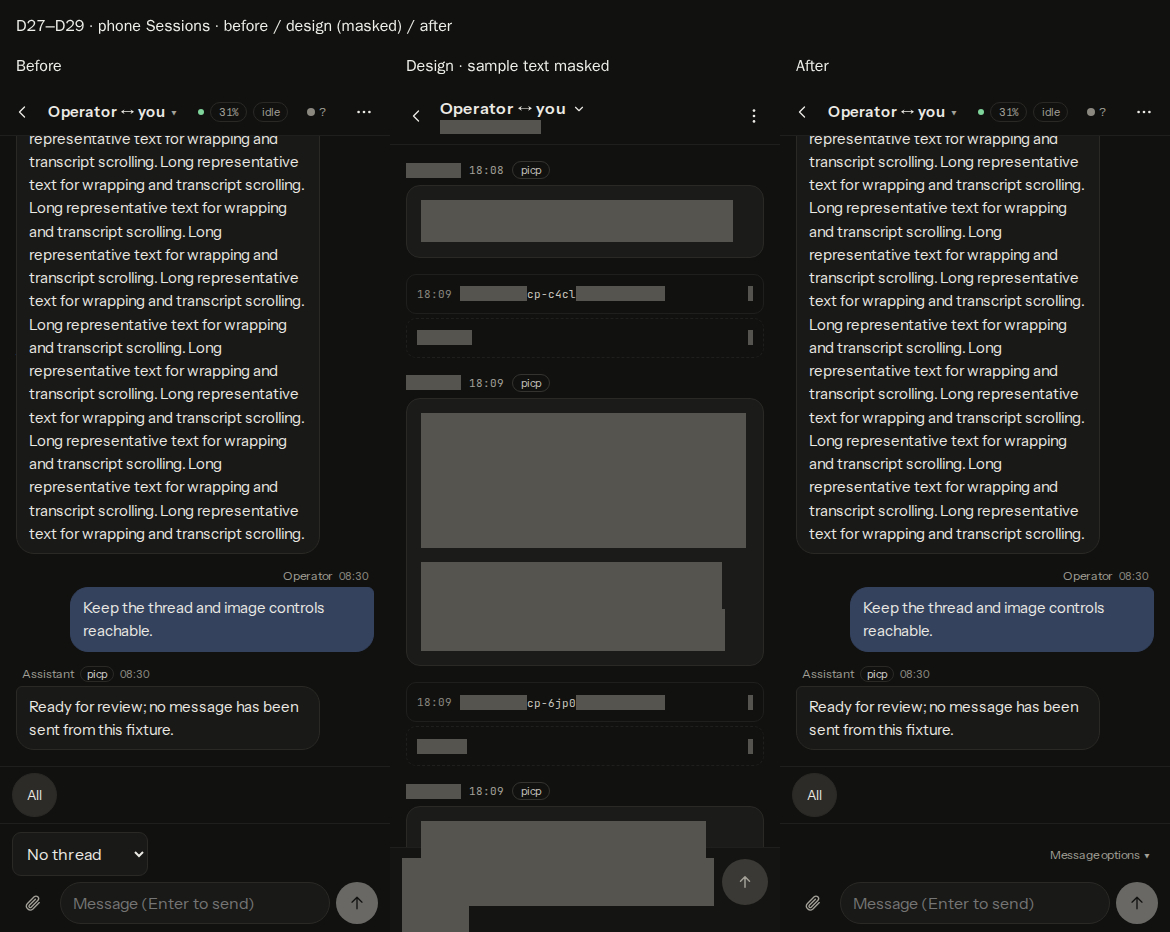
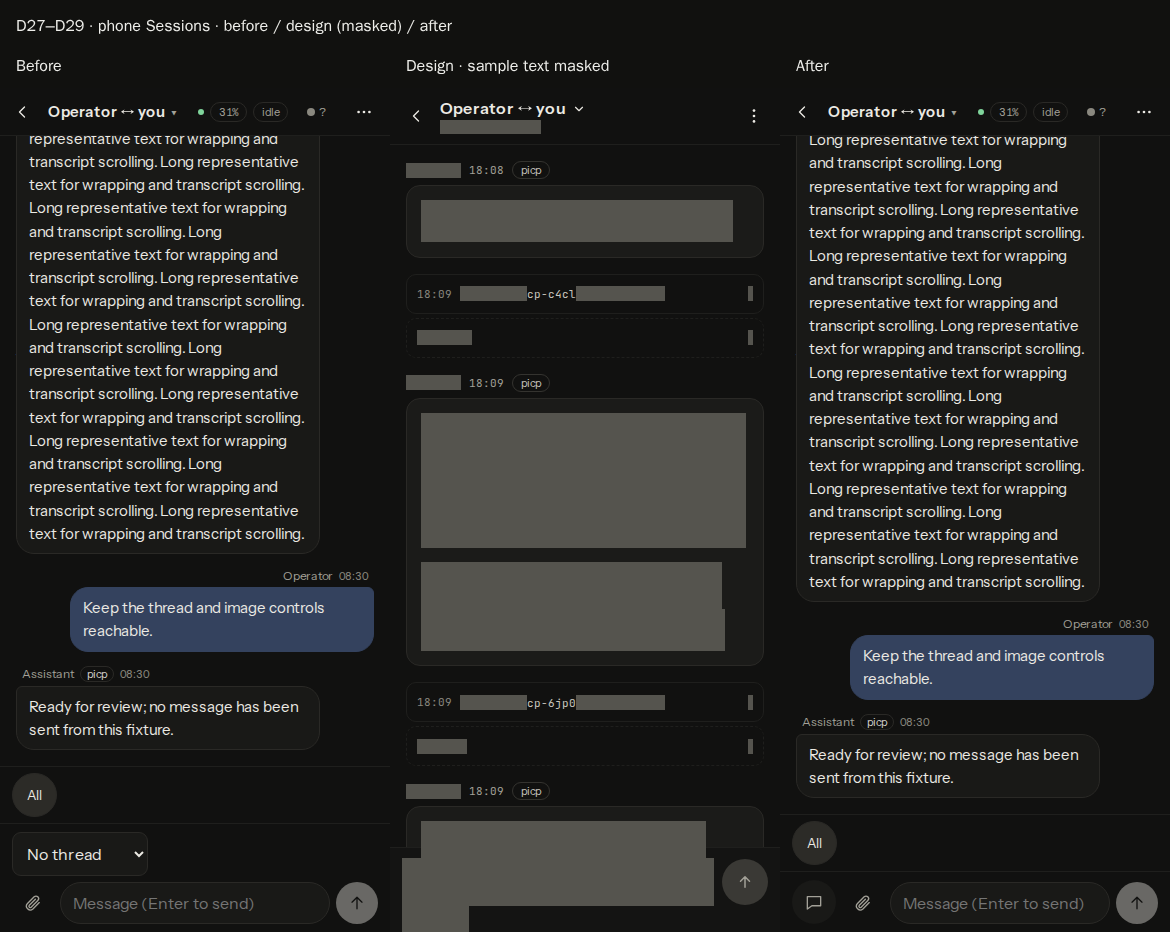
fix(viewer): keep mobile message options in the input row
Use the mobile composer grid to put its 44px Message options trigger
beside the input row. Keep the desktop metadata layout and preserve
attachment rows, visible errors and safe-area padding. Name the icon
accessibly, including the selected thread.

Reproduced the 109px composer, then measured 61px at 390px in idle and
busy fixture states. Pin the shared row and 44px target in tests, link
the masked 390px capture from the S8 plan document, and refresh
the visual comparison. Typecheck and 14 composer-related viewer files
pass as separate test:one runs.

diff --git a/viewer-app/components/control.css b/viewer-app/components/control.css
@@ -49,6 +49,7 @@
 .operator-composer-meta { display: flex; align-items: center; justify-content: space-between; flex-wrap: wrap; gap: 6px 12px; min-width: 0; }
 .operator-composer-options { margin-left: auto; min-width: 0; max-width: 100%; }
 .operator-composer-options > summary { display: flex; align-items: center; gap: 4px; min-height: 44px; padding: 0 8px; font-size: 12px; color: var(--muted); cursor: pointer; overflow-wrap: anywhere; }
+.operator-composer-options > summary > svg { display: none; }
 .operator-composer-options-panel { position: absolute; bottom: calc(100% + 8px); right: 12px; z-index: 3; width: 320px; max-width: calc(100% - 24px); max-height: 45dvh; overflow-y: auto; display: flex; flex-direction: column; gap: 12px; padding: 12px; background: var(--surface); border: 1px solid var(--border); border-radius: 12px; box-shadow: 0 12px 32px var(--page); }
 .operator-composer-options-panel > p { font-size: 12px; color: var(--muted); overflow-wrap: anywhere; }
 .operator-composer-state, .operator-composer-delivery { font-size: 12px; color: var(--muted); overflow-wrap: anywhere; }
@@ -103,6 +104,16 @@
 .overview-services { display: flex; flex-direction: column; gap: 8px; min-width: 0; margin: 0 0 16px; }
 .overview-services-line { margin: 0; overflow-wrap: anywhere; }
 @media (max-width: 899px) {
+ .operator-composer { display: grid; grid-template-columns: 44px minmax(0,1fr); }
+ .operator-composer-meta { display: contents; }
+ .operator-composer-state, .operator-composer-attachments, .start-session { grid-column: 1 / -1; }
+ .operator-composer-options { order: 1; grid-column: 1; align-self: end; margin-left: 0; }
+ .operator-composer-options > summary { justify-content: center; width: 44px; height: 44px; padding: 0; border-radius: 50%; background: var(--surface); }
+ .operator-composer-options > summary > span { display: none; }
+ .operator-composer-options > summary > svg { display: block; }
+ .operator-composer-row { order: 1; grid-column: 2; }
+ .operator-composer:not(:has(.operator-composer-options)) .operator-composer-row { grid-column: 1 / -1; }
+ .operator-composer-delivery { order: 2; grid-column: 1 / -1; }
  /* The status and file name live in the top bar (chip and ⋯ sheet); only a failure or an unready session speaks here. */
  .operator-composer-state-ready, .operator-composer-delivery:not(.operator-composer-failed) { display: none; }
  .operator-composer-thread select, .operator-composer-thread input { font-size: 16px; }

diff --git a/tests/viewer-operator-composer.test.ts b/tests/viewer-operator-composer.test.ts
@@ -122,6 +122,7 @@ test("composer: the filename and thread picker live in compact, closed message o
  await act(() => mount(root,{status:ready,delivery:null,send:()=>{}}));
  const options = root.querySelector("details.operator-composer-options");
  assert.ok(options); assert.equal(options.hasAttribute("open"),false);
+ assert.equal(options.querySelector("summary")?.getAttribute("aria-label"),"Message options","the icon-only mobile trigger keeps its name");
  assert.match(options.textContent ?? "",/op\.jsonl/);
  assert.equal(root.querySelector(".operator-composer-state")?.textContent,"Ready");
  assert.equal(root.querySelector(".operator-composer-state code"),null);
@@ -132,6 +133,7 @@ test("composer: the filename and thread picker live in compact, closed message o
  assert.match(picker?.textContent ?? "",/No thread.*New thread…/);
  await act(() => mount(root,{status:ready,delivery:null,send:()=>{}},undefined,{...threads,selected:"new-fixture-thread"}));
  assert.match(root.querySelector(".operator-composer-options > summary")?.textContent ?? "",/Thread · new-fixture-thread/);
+ assert.equal(root.querySelector(".operator-composer-options > summary")?.getAttribute("aria-label"),"Thread · new-fixture-thread","the selected thread stays accessible on mobile");
  await act(() => unmount(root));
  await act(() => mount(root,{status:{...ready,enabled:false,reason:"Dashboard control is off"},delivery:null,send:()=>{}}));
  assert.equal(root.querySelector(".operator-composer-options"),null);

diff --git a/tests/viewer-mobile-keyboard.test.ts b/tests/viewer-mobile-keyboard.test.ts
@@ -121,3 +121,13 @@ test("the Sessions screen shares .shell-main with the page bar and banners: it f
 	assert.match(css, /\.session-transcript \{ flex: 1; min-height: 0; overflow-y: auto;/, "the transcript scrolls above the composer");
 	assert.match(readFileSync(join(REPO_ROOT, "viewer-app/components/control.css"), "utf8"), /\.operator-composer \{[^}]*padding-bottom: calc\(8px \+ env\(safe-area-inset-bottom\)\);[^}]*flex-shrink: 0;/, "the composer never shrinks and clears the home indicator");
 });
+
+test("the collapsed phone composer shares one row with a 44px Message options target", () => {
+	const css = readFileSync(join(REPO_ROOT, "viewer-app/components/control.css"), "utf8");
+	const phone = css.slice(css.lastIndexOf("@media (max-width: 899px) {"));
+	assert.match(phone, /\.operator-composer \{ display: grid; grid-template-columns: 44px minmax\(0,1fr\); \}/, "options share the input row instead of consuming another 44px row");
+	assert.match(phone, /\.operator-composer-meta \{ display: contents; \}/, "the hidden ready status leaves no empty row or gap");
+	assert.match(phone, /\.operator-composer-row \{[^}]*order: 1;[^}]*grid-column: 2;/);
+	assert.match(phone, /\.operator-composer-options \{[^}]*order: 1;[^}]*grid-column: 1;/);
+	assert.match(phone, /\.operator-composer-options > summary \{[^}]*width: 44px;[^}]*height: 44px;/, "the disclosure keeps its touch target");
+});

diff --git a/viewer-app/components/OperatorComposer.tsx b/viewer-app/components/OperatorComposer.tsx
@@ -76,11 +76,12 @@ export function OperatorComposer({control, draft, thread}: {control:ControlView;
  const line = deliveryLine(control.delivery);
  const flagged = control.delivery?.state === "failed" || !!control.delivery?.reason;
  const sendLabel = busy ? "Send after this turn" : "Send";
+ const optionsLabel = thread?.selected ? `Thread · ${thread.selected}` : "Message options";
  return <section class="operator-composer" aria-label="Message the operator session">
   <div class="operator-composer-meta">
    <p class={ready && status.running ? "operator-composer-state operator-composer-state-ready" : "operator-composer-state"}>{controlLine(status)}</p>
    {ready && ((status.running && status.session_file) || threadsReady(thread?.status)) && <details class="operator-composer-options">
-    <summary>{thread?.selected ? `Thread · ${thread.selected}` : "Message options"}<span aria-hidden="true"> ▾</span></summary>
+    <summary aria-label={optionsLabel} title={optionsLabel}><span>{optionsLabel}</span><span aria-hidden="true"> ▾</span><Icon name="sessions"/></summary>
     <div class="operator-composer-options-panel">
      {thread && <ThreadPicker threads={thread}/>}
      {status.running && status.session_file && <p>Delivers to the running session <code>{status.session_file}</code></p>}

diff --git a/docs/tui-verification/v4-s8.md b/docs/tui-verification/v4-s8.md
@@ -64,7 +64,7 @@ The focused runs and browser measurements below record the implementation eviden
 | Bridge/project rendering retained (D28) | `viewer-app/screens/Sessions.tsx`; `tests/viewer-sessions-files-render.test.ts`, `tests/viewer-sessions-qa.test.ts`. |
 | Raw delivery filename in disclosure (D29) | `viewer-app/components/OperatorComposer.tsx`, `viewer-app/components/control.css`; `tests/viewer-operator-composer.test.ts`, `tests/viewer-control-ui.test.ts`; closed/open Message options browser checks. |
 | Functional thread/image controls and draft/steer/send behavior (D29) | `viewer-app/components/OperatorComposer.tsx`; `tests/viewer-threads-ui.test.ts`, `tests/viewer-operator-composer-images.test.ts`, `tests/viewer-operator-composer.test.ts`; browser thread creation/image-picker checks. |
-| Re-verify S1 and #110 height, viewport pan/focus, safe area | `viewer-app/screens/sessions.css`, `viewer-app/components/control.css`; `tests/viewer-mobile-keyboard.test.ts`, `tests/viewer-more-menu.test.ts`, `tests/viewer-palette.test.ts`; 390/900/1440 px and simulated keyboard measurements below. |
+| Re-verify S1 and #110 height, viewport pan/focus, safe area | `viewer-app/screens/sessions.css`, `viewer-app/components/control.css`; `tests/viewer-mobile-keyboard.test.ts`, `tests/viewer-more-menu.test.ts`, `tests/viewer-palette.test.ts`; [390 px collapsed-composer capture: 61 px](v4-s8/composer-collapsed-phone.png), 390/900/1440 px and simulated keyboard measurements below. |
 | Preserve #101/#102 evidence semantics | `src/viewer/jobs-view.ts` remains unchanged; `tests/viewer-jobs.test.ts` preserves matching-head CI and recorded/equivalent review evidence. |
 
 ## Before, design and after
@@ -74,6 +74,7 @@ Each sheet contains the baseline, masked design, and patched viewer at the artbo
 - [Desktop hierarchy, header and composer (D26–D29)](v4-s8/desktop.png)
 - [Phone composer and controls (D27–D29)](v4-s8/phone.png)
 - [Phone session switcher (D27)](v4-s8/switcher.png)
+- [Collapsed composer at 390px — measured height 61px](v4-s8/composer-collapsed-phone.png)
 
 The fixture viewer ran only at `http://127.0.0.1:8768/`, with synthetic records under `.pi-command-post/s8-visual/fixture-home/`. The plan's `compare.cjs` ran before and after for all 25 artboards, with matching PNG dimensions. Its original worker import/output paths were adapted to this worktree, and the existing S1 design masking was applied **before** screenshots. All non-allowlisted design text, images, canvas and input controls were masked, including every non-fixture project name other than picp. No unmasked design capture was committed. Requests allowed GET only, redacted credential patterns and masked viewer images.
 
@@ -81,19 +82,23 @@ The fixture viewer ran only at `http://127.0.0.1:8768/`, with synthetic records 
 
 | Viewport | Composer top / bottom | Transcript header height |
 |---|---|---|
-| 390×844 | 735 / 844 | Phone top bar; desktop header hidden |
+| 390×844 | 783 / 844 (61 px collapsed) | Phone top bar; desktop header hidden |
 | 900×900 | 738 / 859 | 117 px, two control rows |
 | 1440×900 | 738 / 859 | 65 px, one control row |
 
+The masked [390×844 collapsed-composer capture](v4-s8/composer-collapsed-phone.png) measures **61 px high**, below the **≤64 px** target. Its 44×44 px Message options trigger shares the input row on mobile, with an accessible name that includes the selected thread. The height stays 61 px while idle or busy with image controls, a long selected thread, a one-line message, or the disclosure open. The verifier asserts both the height ceiling and the shared row; these measurements use Chromium with a zero safe-area inset. Attachments, multiple text lines and visible errors can still grow the composer, and safe-area padding remains intact.
+
 The desktop panel has an 18 px radius and a visible border. Sessions and Overview titles start at y=28; sidebar Search remains at y=63. Long title, transcript and delivery-filename fixtures cause no page overflow or title/clock overlap. The composer remains fully visible, and only the transcript scrolls. Its raw delivery filename and the empty thread picker are inside closed Message options; the selected thread appears in the disclosure label. The date picker is labelled Transcript, marks the current file and keeps file IDs in option titles. Bridge disclosures, project chips, the tool toggle, thread creation/selection, the image file chooser, and unavailable-control wording were exercised. Escape closes Message options and restores focus; an outside click closes it. Shift+Enter inserts an unsent newline.
 
-A simulated 402 px visual viewport panned by 214 px places the composer at y=507–616, above the simulated keyboard, with window scroll at zero and transcript space still visible. Closing it restores bottom=844. This re-verifies S1 and PR 110; physical iOS keyboard behavior remains untested. Browser QA attempted zero mutation requests. Uploads, thread sends, Enter/IME, steering and abort behavior are covered by focused unit checks rather than live writes.
+A simulated 402 px visual viewport panned by 214 px places the composer at y=555–616, above the simulated keyboard, with window scroll at zero and transcript space still visible. Closing it restores bottom=844. This re-verifies S1 and PR 110; physical iOS keyboard behavior remains untested. Browser QA attempted zero mutation requests. Uploads, thread sends, Enter/IME, steering and abort behavior are covered by focused unit checks rather than live writes.
 
 ## Focused verification
 
-`npm run typecheck` and all 56 `tests/viewer-*.test.ts` files passed, each invoked separately with `npm run test:one -- tests/<file>` on the repaired tree. No viewer file needed a retry. The five reported CI assertions first reproduced locally: three in `viewer-context-usage`, one in `viewer-control-ui`, and one in `viewer-transcript-tools`. New title/disclosure regressions also failed against the original baseline first. The jobs tests retain the matching-head CI and recorded/equivalent review evidence from PRs 101 and 102.
+At `ecd433f62e64e1ded300f7bad551a31377b9633e`, `npm run typecheck` and all 56 `tests/viewer-*.test.ts` files passed, each invoked separately with `npm run test:one -- tests/<file>`. No viewer file needed a retry. The five reported CI assertions first reproduced locally: three in `viewer-context-usage`, one in `viewer-control-ui`, and one in `viewer-transcript-tools`. New title/disclosure regressions also failed against the original baseline first. The jobs tests retain the matching-head CI and recorded/equivalent review evidence from PRs 101 and 102.
 
 The repair restores the full ContextChip in the heading and visible `session-model` rows for operator/parent model and thinking, including explicit unknown-model wording. Worker assertions now retain the v4 run-phase prefix while checking session/routing thinking and switched-model precedence. The composer assertion checks the filename inside closed Message options; pinned cards remain above the composer. The layout assertion isolates the 1440px media block from the new 900–1199px order rule, retaining the 44px tool/notice targets and long-line/path checks. The heading assertion now checks the heading itself. Fresh masked comparison sheets and the browser checks above confirm the restored metadata keeps the measured heights.
+
+The review's mobile-height finding reproduced at 109 px. After the mobile grid repair, `npm run typecheck` and separate runs of `viewer-operator-composer`, `viewer-operator-composer-images`, `viewer-threads-ui`, `viewer-control-ui`, `viewer-mobile-keyboard`, `viewer-restart-ui`, `viewer-transcript-chat`, `viewer-transcript-tools`, `viewer-sessions-files-render`, `viewer-context-usage`, `viewer-linkify`, `viewer-schedules`, `viewer-threads-http` and `viewer-workbench` passed. The new mobile shared-row/44 px regression failed before the fix; composer tests also pin the icon's accessible name and selected-thread label. Browser assertions pin the collapsed 61 px height, and the masked capture is linked above.
 
 `npm run eval:contract` passed all 27 scored cases. `CP_UPDATE_GOLDEN=1` regenerated the export golden and intentionally required a normal rerun, which passed. Both generated files already matched their committed contents. No full local suite ran; CI owns it. LSP was unavailable, so root TypeScript checking supplies the type evidence.
 
